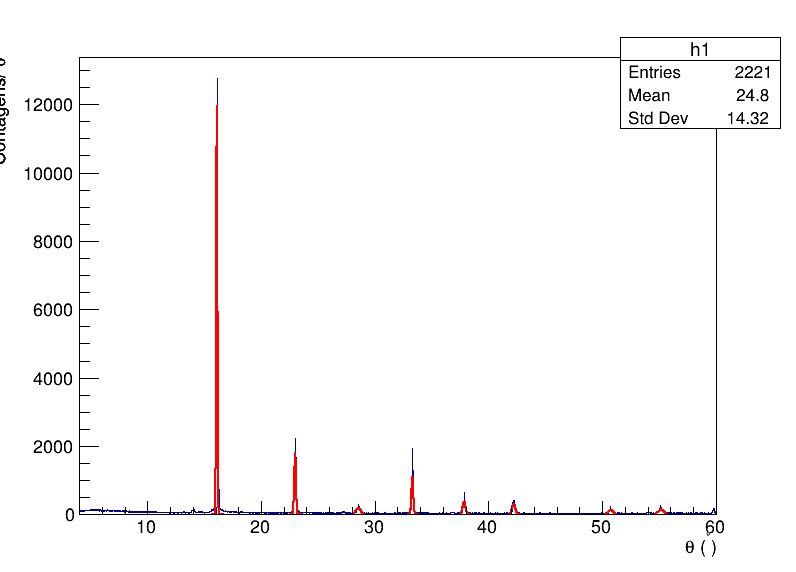
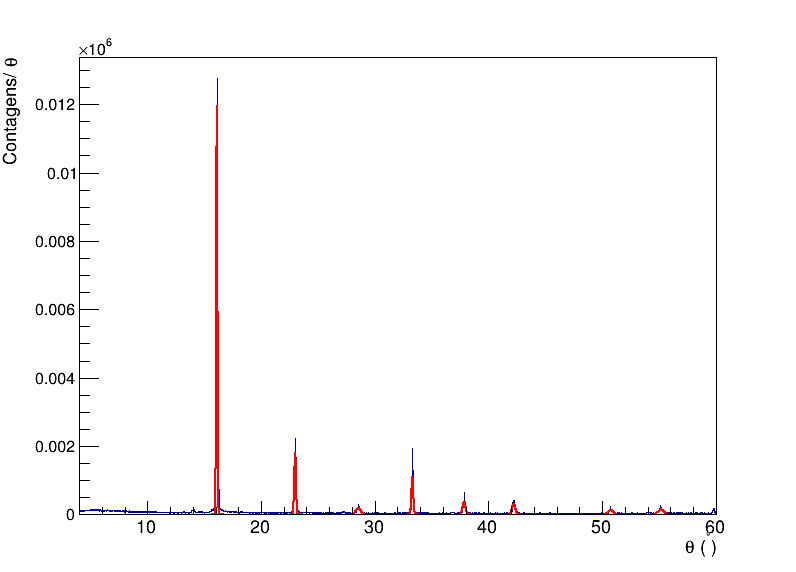
drx_update

diff --git a/powder_spec/analise.C b/powder_spec/analise.C
@@ -1,3 +1,5 @@
+// print log to file in term: SomeCommand 2>&1 | tee SomeFile.txt
+
 #include "TArrow.h"
 #include "TCanvas.h"
 #include "TChain.h"
@@ -22,7 +24,49 @@
 
 using namespace std;
 
-TGraph read_DRX(TString path, TString filename) {
+void superpose(TH1 *h1, TH1 *h2, TString filename) {
+
+    // TArrow *kb = new TArrow(41.8, 0.008e6, 41.8, 0.006e6, 0.01, "|>");
+    // TLatex *tkb = new TLatex(40.3, 0.0082e6, "K_{#beta}");
+    // tkb->SetTextSize(0.03);
+    // // tkb->SetTextColor(kBlue);
+
+    // kb->SetAngle(40);
+    // kb->SetLineWidth(2);
+    // // kb->SetLineColor(kBlue);
+    // // kb->SetFillColor(kBlue);
+    // TArrow *ka = new TArrow(60, 0.014e6, 50, 0.014e6, 0.01, "|>");
+    // TLatex *tka = new TLatex(62, 0.0138e6, "K_{#alpha}");
+    // tka->SetTextSize(0.03);
+    // // tka->SetTextColor(kBlue);
+
+    // ka->SetAngle(40);
+    // ka->SetLineWidth(2);
+    // // ka->SetLineColor(kBlue);
+    // // ka->SetFillColor(kBlue);
+    // TArrow *kbrehmmin = new TArrow(11.5, 0.0042e6, 11.5, 0.0022e6, 0.01, "|>");
+    // TLatex *tbrehmmin = new TLatex(10.0, 0.0044e6, "B_{min}");
+    // tbrehmmin->SetTextSize(0.03);
+    // // tbrehmmin->SetTextColor(kBlue);
+
+    // kbrehmmin->SetAngle(40);
+    // kbrehmmin->SetLineWidth(2);
+    // // kbrehmmin->SetLineColor(kBlue);
+    // // kbrehmmin->SetFillColor(kBlue);
+    TCanvas *c1 = new TCanvas("c1", "", 800, 600);
+    h1->SetLineColor(kGreen);
+
+    // h1->DrawNormalized();
+    // h2->DrawNormalized("same");
+    h1->SetMaximum(5000);
+    h1->Draw();
+    h2->Draw("same");
+
+    c1->SaveAs("plots/overlaid_" + filename + Form(".png"));
+    c1->Close();
+}
+
+TH1D *read_DRX(TString path, TString filename) {
     ifstream inp;
 
     // getting the sample name from path
@@ -97,9 +141,6 @@ TGraph read_DRX(TString path, TString filename) {
     c->SaveAs(Form("plots/") + filename + Form(".png"));
     c->Close();
 
-    print_vector(&theta_peaks);
-    print_vector(&peaks.at(1));
-
     vector<double> fit_d_peaks, fit_a_peaks;
     double comp_k_alpha = 1.54184; // angstrom??????
     TF1 *gaus_peak;
@@ -117,11 +158,14 @@ TGraph read_DRX(TString path, TString filename) {
         double d_cristallite = (4. / 3) * 0.9 * comp_k_alpha * 100 / (beta * cos(gaus_peak->GetParameter(1) * M_PI / 180));
         cout << Form("cristallite diameter:  d = %f pm", d_cristallite) << endl;
     }
+    print_vector(&theta_peaks);
+    print_vector(&fit_d_peaks);
+    print_vector(&peaks.at(1));
 
     plot_hist(h1, Form("plots/h_") + sample_name);
 
     TCanvas *c2 = new TCanvas("c2", "", 800, 600);
-    c2->SetGrid();
+    // c2->SetGrid();
 
     c2->cd();
     vector<TF1 *> net_par;
@@ -144,7 +188,7 @@ TGraph read_DRX(TString path, TString filename) {
                     linear_hkl->SetTitle(";d (pm);a (pm)");
 
                     leg = new TLatex(345, linear_hkl->Eval(345), Form("(%d%d%d)", h, k, l));
-                    leg->SetTextSize(0.015);
+                    leg->SetTextSize(0.02);
                     leg->SetTextAlign(13);
                     leg_array.push_back(leg);
                     // cout << Form("(%d%d%d)", h, k, l) << endl;
@@ -166,12 +210,17 @@ TGraph read_DRX(TString path, TString filename) {
 
     TLine *horizontal_hkl;
     vector<TLine *> horizontal_par;
-    for (int k = 0; k < 8; k++) {
-        double y = net_par.at(k)->Eval(fit_d_peaks.at(1));
-        horizontal_hkl = new TLine(60, y, 340, y);
-        horizontal_par.push_back(horizontal_hkl);
+    cout << "------ height a (pm) ------" << endl;
+    cout << Form("d \t a") << endl;
+    for (int k = 0; k < net_par.size(); k++) {
+        if (net_par.at(k)->Eval(fit_d_peaks.at(1)) < 1000) {
+            double y = net_par.at(k)->Eval(fit_d_peaks.at(1));
+            cout << Form("%f \t %f\t %f", fit_d_peaks.at(1), y, sqrt(k + 1) * 5) << endl;
+            horizontal_hkl = new TLine(60, y, 340, y);
+            horizontal_par.push_back(horizontal_hkl);
+        }
     }
-
+    net_par.at(net_par.size() - 1)->SetMaximum(1200);
     net_par.at(net_par.size() - 1)->Draw();
     leg_array.at(net_par.size() - 1)->Draw("SAME");
     for (int k = 0; k < net_par.size() - 1; k++) {
@@ -203,13 +252,19 @@ TGraph read_DRX(TString path, TString filename) {
         cout << Form("%f \t %f \t %f", ang1, ang2, ang3) << endl;
     }
 
-    delete h1;
-    return *gr_peaks;
+    // delete h1;
+    return h1;
 }
 
 void analise() {
+
     read_DRX("data/", "KBr.dat");
     // read_DRX("data/", "KBrdet62.dat");
-    read_DRX("data/", "NaClbrutoPlano.dat");
-    read_DRX("data/", "NaClmoido.dat");
+
+    TH1D *h_bruto;
+    TH1D *h_moido;
+
+    h_bruto = read_DRX("data/", "NaClbrutoPlano.dat");
+    h_moido = read_DRX("data/", "NaClmoido.dat");
+    superpose(h_bruto, h_moido, "NaCl");
 }

diff --git a/analise.C b/analise.C
@@ -76,7 +76,10 @@ TGraph read_TGraph(TString path, TString filename) {
     // change it later
     double dLiF = 201e-12, hc = 1.23984198e-6, q = 1.6e-19;
 
-    cout << "\\theta_bremsstrahlung_min_energy = " << hc / (2 * dLiF * sin((x_bremsstrahlung_min + 0.5) * M_PI / 180) * 1.e3) << (" kV") << endl;
+    double angle_rad = (x_bremsstrahlung_min)*M_PI / 180;
+    double B_min_energy = hc / (2 * dLiF * sin(angle_rad) * 1.e3);
+    double B_min_energy_error = hc * cos(angle_rad) * 0.5 * M_PI / 180 / (2 * dLiF * sin(angle_rad) * sin(angle_rad) * 1.e3);
+    cout << "\\theta_bremsstrahlung_min_energy = " << B_min_energy << ("+/-") << B_min_energy_error << (" kV") << endl;
 
     inp.close();
     // achando picos
@@ -84,9 +87,9 @@ TGraph read_TGraph(TString path, TString filename) {
     cout << "numero de picos = " << (peaks.at(0)).size() << endl;
 
     vector<double> theta_peaks;
-    cout << Form("Peaks (i, x, y)") << endl;
+    cout << Form("Peaks (i, x, y, E, dE)") << endl;
     for (int j = 0; j < (peaks.at(0)).size(); j++) {
-        cout << Form("(%d, %f, %f)", (int)peaks.at(0).at(j), x_array[(int)peaks.at(0).at(j)], peaks.at(1).at(j)) << endl;
+        cout << Form("(%d, %f, %f, %f, %f)", (int)peaks.at(0).at(j), x_array[(int)peaks.at(0).at(j)], peaks.at(1).at(j), hc / (2 * dLiF * sin(x_array[(int)peaks.at(0).at(j)] * M_PI / 180) * 1.e3), hc * cos(x_array[(int)peaks.at(0).at(j)] * M_PI / 180) * 0.5 * M_PI / 180 / (2 * dLiF * sin(x_array[(int)peaks.at(0).at(j)] * M_PI / 180) * sin(x_array[(int)peaks.at(0).at(j)] * M_PI / 180) * 1.e3)) << endl;
 
         theta_peaks.push_back(x_array[(int)peaks.at(0).at(j)]);
     }
@@ -102,7 +105,7 @@ TGraph read_TGraph(TString path, TString filename) {
 
     auto mg = new TMultiGraph();
     mg->SetName("mg");
-    mg->SetTitle(";#theta (^{#circ});Contagens/#theta");
+    mg->SetTitle(";2#theta (^{#circ});Contagens/2#theta");
 
     TCanvas *c = new TCanvas("c", " ", 0, 0, 800, 600);
 
@@ -135,7 +138,64 @@ TGraph read_TGraph(TString path, TString filename) {
     return *gr_peaks;
 }
 
+void superpose(TString path, TString filename1, TString filename2) {
+
+    TGraph *gr1 = new TGraph(path + filename1, "%lg %lg", "");
+    gr1->SetLineColor(kRed);
+    TGraph *gr2 = new TGraph(path + filename2, "%lg %lg", "");
+    gr2->SetLineColor(kBlue);
+
+    TArrow *kb = new TArrow(41.8, 0.008e6, 41.8, 0.006e6, 0.01, "|>");
+    TLatex *tkb = new TLatex(40.3, 0.0082e6, "K_{#beta}");
+    tkb->SetTextSize(0.03);
+    // tkb->SetTextColor(kBlue);
+
+    kb->SetAngle(40);
+    kb->SetLineWidth(2);
+    // kb->SetLineColor(kBlue);
+    // kb->SetFillColor(kBlue);
+    TArrow *ka = new TArrow(60, 0.014e6, 50, 0.014e6, 0.01, "|>");
+    TLatex *tka = new TLatex(62, 0.0138e6, "K_{#alpha}");
+    tka->SetTextSize(0.03);
+    // tka->SetTextColor(kBlue);
+
+    ka->SetAngle(40);
+    ka->SetLineWidth(2);
+    // ka->SetLineColor(kBlue);
+    // ka->SetFillColor(kBlue);
+    TArrow *kbrehmmin = new TArrow(11.5, 0.0042e6, 11.5, 0.0022e6, 0.01, "|>");
+    TLatex *tbrehmmin = new TLatex(10.0, 0.0044e6, "B_{min}");
+    tbrehmmin->SetTextSize(0.03);
+    // tbrehmmin->SetTextColor(kBlue);
+
+    kbrehmmin->SetAngle(40);
+    kbrehmmin->SetLineWidth(2);
+    // kbrehmmin->SetLineColor(kBlue);
+    // kbrehmmin->SetFillColor(kBlue);
+
+    TMultiGraph *mg = new TMultiGraph();
+    mg->Add(gr1, "AL");
+    mg->Add(gr2, "AL");
+    mg->SetTitle(";2#theta (^{#circ});Contagens/2#theta");
+
+    TCanvas *c1 = new TCanvas("c1", "", 800, 600);
+    // gr1->Draw("APL");
+    // gr2->Draw("SAMEAPL");
+    mg->Draw("A");
+    kb->Draw();
+    ka->Draw();
+    tka->Draw();
+    tkb->Draw();
+    tbrehmmin->Draw();
+    kbrehmmin->Draw();
+    mg->GetYaxis()->SetMaxDigits(2);
+    mg->GetYaxis()->SetLabelSize(0.03);
+    c1->SaveAs("plots/overlaid_LiF_DRX.png");
+    c1->Close();
+}
+
 void analise() {
     read_TGraph("DRX/", "drx_Cu_LiF_abs_Ni_24kV_60s.dat");
     read_TGraph("DRX/", "drx_Cu_LiF_24kV_60s.dat");
+    superpose("DRX/", "drx_Cu_LiF_abs_Ni_24kV_60s.dat", "drx_Cu_LiF_24kV_60s.dat");
 }

diff --git a/powder_spec/utility.h b/powder_spec/utility.h
@@ -48,7 +48,11 @@ vector<vector<T>> find_peaksn(vector<T> *x, double height, int order = 1) {
 }
 
 void plot_hist(TH1 *h, TString output_name = "") {
+    gStyle->SetOptStat(0);
     TCanvas *c = new TCanvas("c", "", 800, 600);
+    h->GetYaxis()->SetMaxDigits(2);
+    h->GetYaxis()->SetLabelSize(0.03);
+
     h->Draw();
     c->SaveAs(output_name + Form(".png"));
     c->Close();
